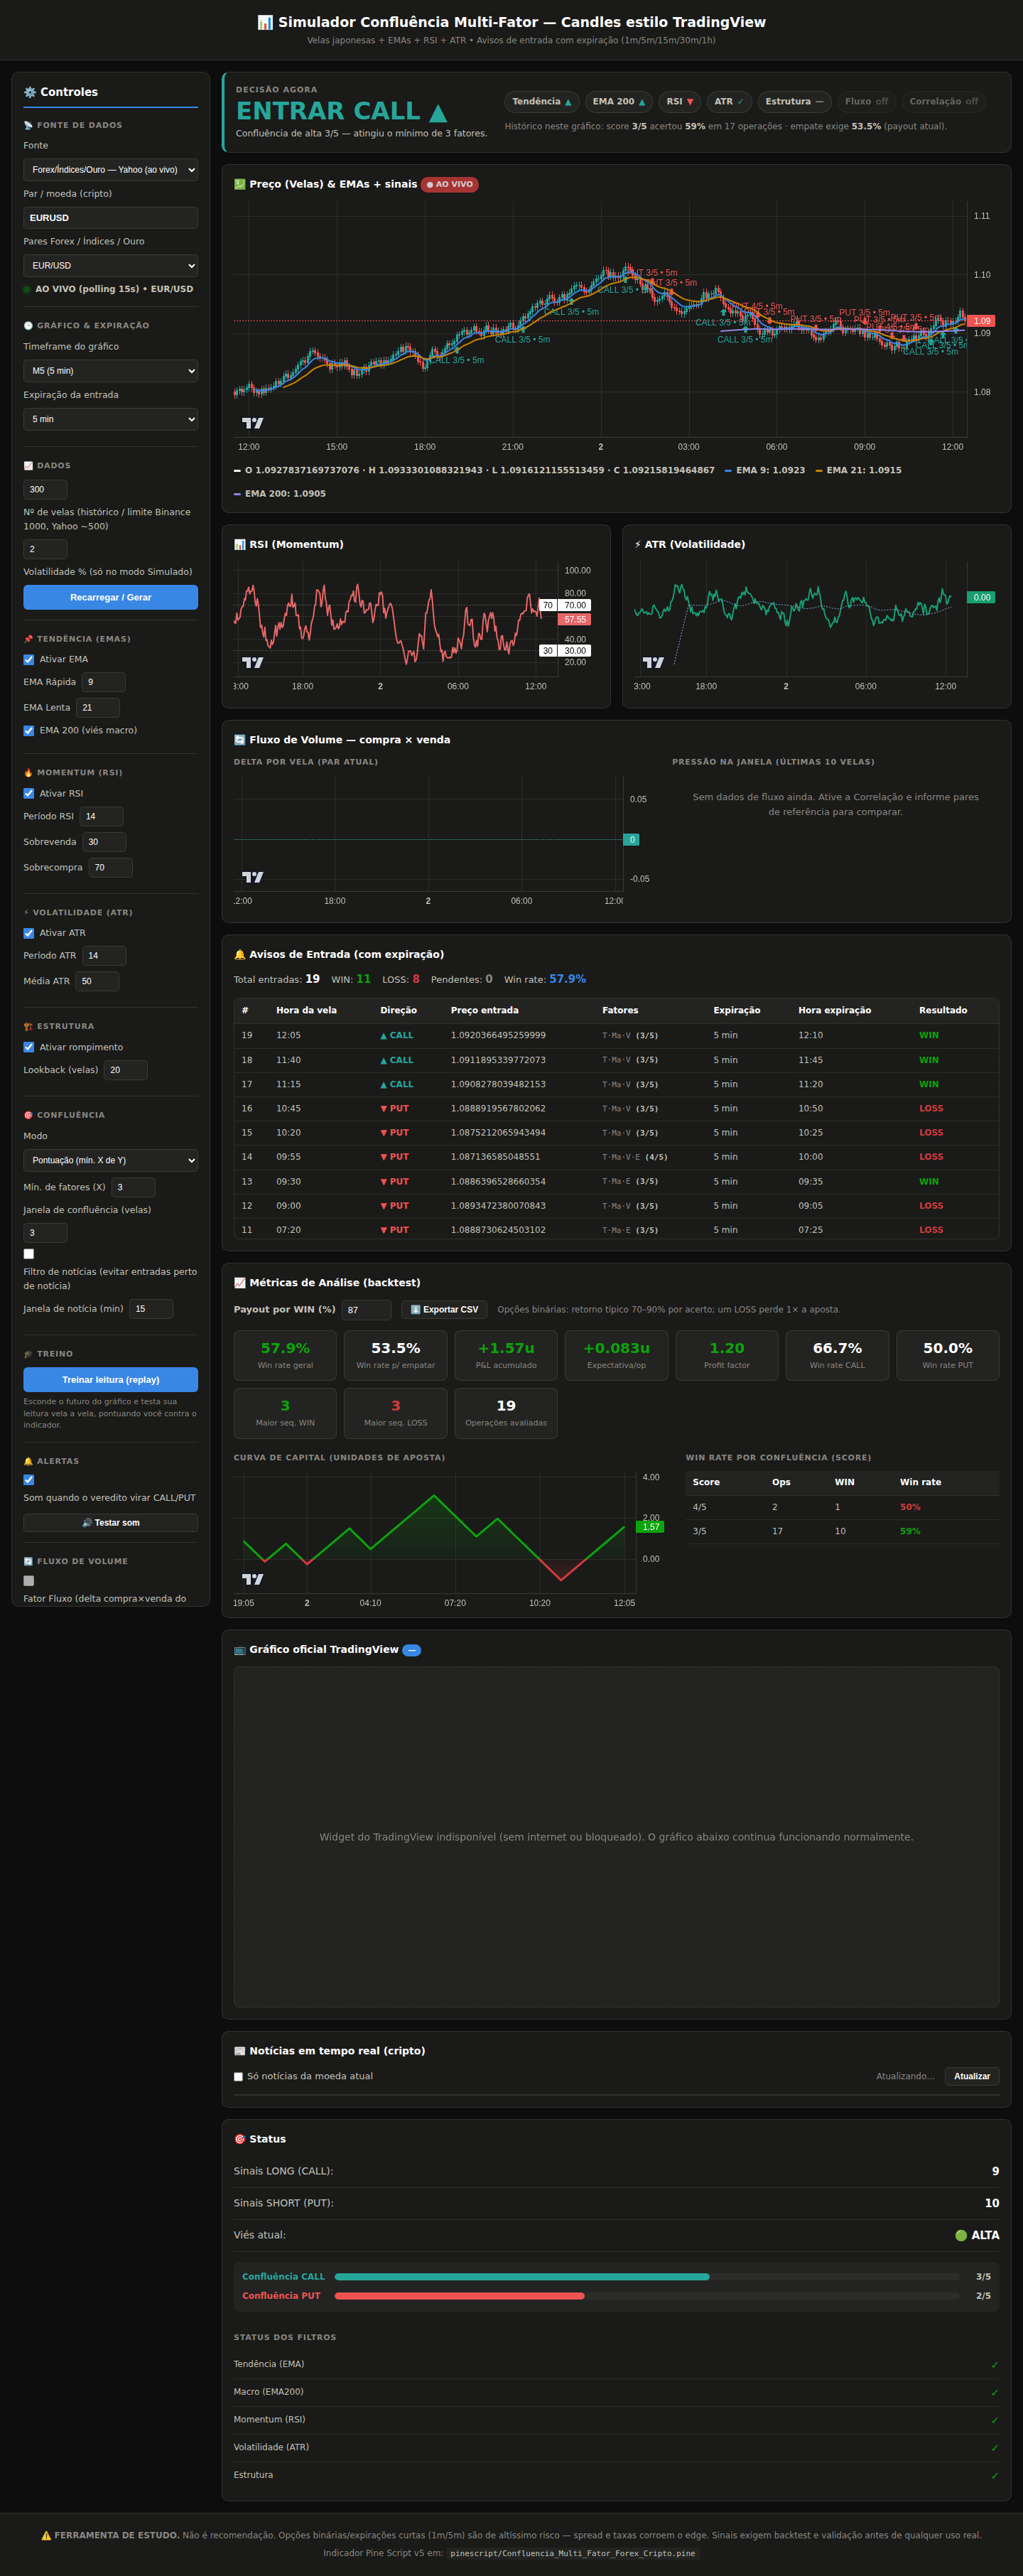
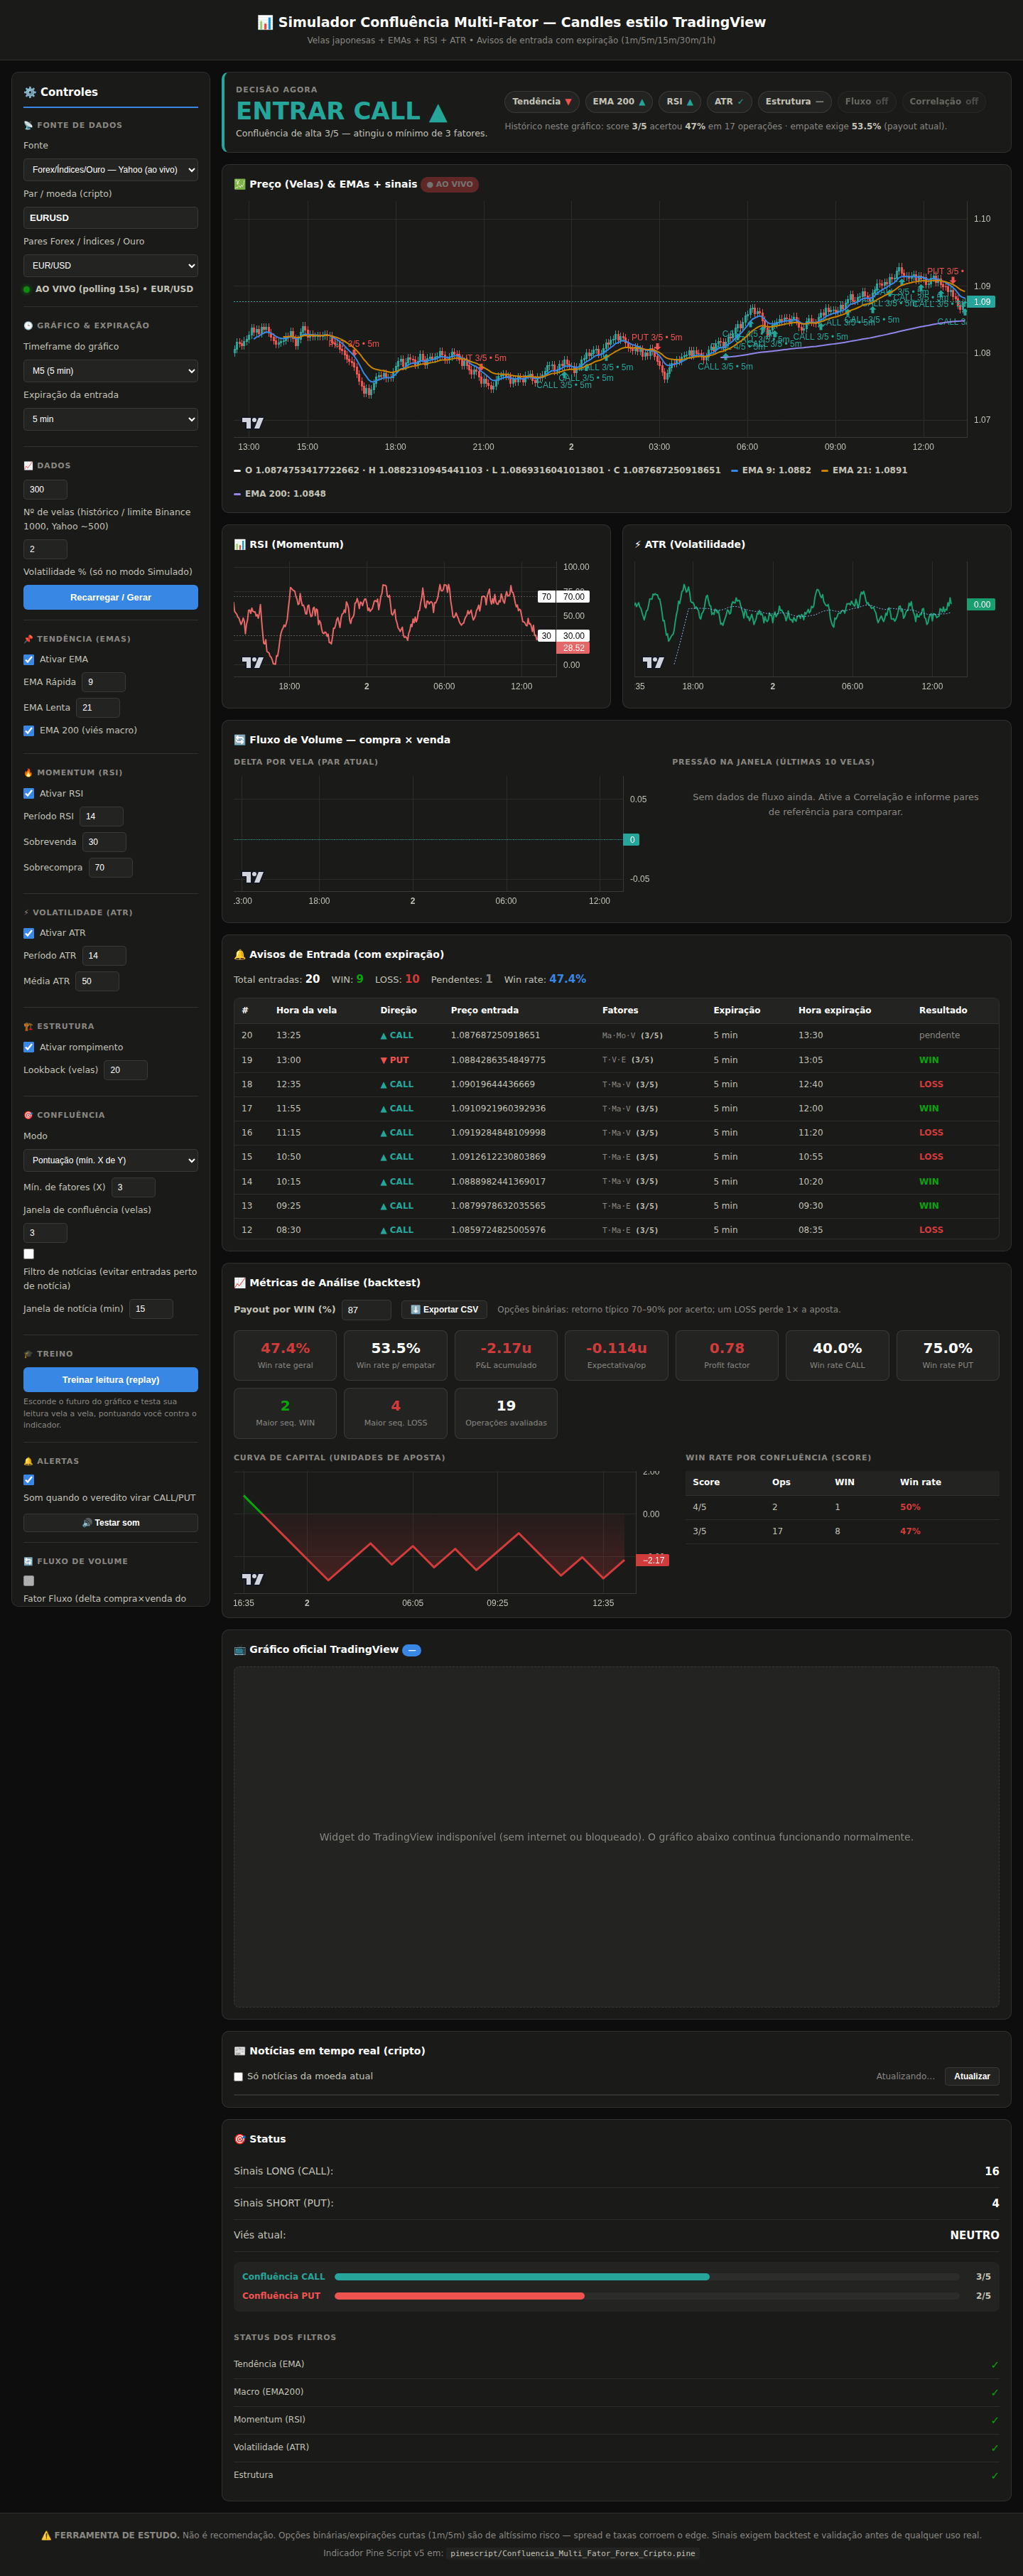
Fix 'Failed to fetch' on Forex/Yahoo source with multi-proxy fallback
The Yahoo source relied on a single CORS proxy (allorigins/get), which is
intermittently down (observed 500/522 from Cloudflare) — that produced the
'Falha: Failed to fetch' users hit. fetchYahooJson now cycles through
several CORS proxies (allorigins/raw, codetabs, allorigins/get) across 3
rounds with backoff, returning on the first that yields a valid Yahoo chart
payload, so one proxy being down no longer breaks the load. The ?yproxy=
override still forces a single {contents}-wrapped proxy for tests.

Also clarifies status text: while loading it shows the pair being fetched,
and on total failure the fallback is explicitly labeled SIMULADO with a
prompt to click Recarregar to retry.

Verified in headless Chromium against the local Yahoo mock: EUR/USD,
XAU/USD, NAS100 and GER40 each load 300 candles and reach 'AO VIVO' with
the correct TradingView symbol.

diff --git a/pinescript/Simulador_Standalone.html b/pinescript/Simulador_Standalone.html
@@ -1387,7 +1387,17 @@ const BINANCE_REST = _params.get('rest') || 'https://data-api.binance.vision';
 const BINANCE_WS   = _params.get('ws')   || 'wss://data-stream.binance.vision';
 
 // ---- Forex / Índices / Ouro via Yahoo Finance (keyless, sem CORS -> via proxy) ----
-const YAHOO_PROXY = _params.get('yproxy') || 'https://api.allorigins.win/get?url=';
+// Yahoo não libera CORS; passamos por proxies CORS públicos. Como cada um é
+// instável (allorigins às vezes cai com 500/522), tentamos VÁRIOS em sequência.
+// ?yproxy= força um único proxy no formato {contents:...} (usado nos testes).
+const YAHOO_PROXY_OVERRIDE = _params.get('yproxy');
+const YAHOO_PROXIES = YAHOO_PROXY_OVERRIDE
+    ? [{ nome: 'override', montar: u => YAHOO_PROXY_OVERRIDE + encodeURIComponent(u), texto: async r => JSON.parse(await r.text()).contents }]
+    : [
+        { nome: 'allorigins-raw', montar: u => 'https://api.allorigins.win/raw?url=' + encodeURIComponent(u), texto: r => r.text() },
+        { nome: 'codetabs', montar: u => 'https://api.codetabs.com/v1/proxy/?quest=' + encodeURIComponent(u), texto: r => r.text() },
+        { nome: 'allorigins-get', montar: u => 'https://api.allorigins.win/get?url=' + encodeURIComponent(u), texto: async r => JSON.parse(await r.text()).contents }
+    ];
 const PARES_YAHOO = {
     EURUSD: { yahoo: 'EURUSD=X', tv: 'FX:EURUSD', label: 'EUR/USD' },
     USDJPY: { yahoo: 'USDJPY=X', tv: 'FX:USDJPY', label: 'USD/JPY' },
@@ -2582,23 +2592,25 @@ function pararPollYahoo() { if (yahooPollTimer) { clearInterval(yahooPollTimer);
 // Yahoo não tem CORS liberado nem WS público: usamos um proxy que embrulha a
 // resposta em {contents:"..."} (mesmo mecanismo das notícias), com retry —
 // esse proxy público é instável e às vezes devolve 500/522 transitórios.
-async function fetchYahooJson(url, tentativas) {
-    tentativas = tentativas || 3;
+async function fetchYahooJson(url, rodadas) {
+    rodadas = rodadas || 3;
     let ultimoErro;
-    for (let i = 0; i < tentativas; i++) {
-        try {
-            const resp = await fetch(YAHOO_PROXY + encodeURIComponent(url));
-            if (!resp.ok) throw new Error('HTTP ' + resp.status);
-            const wrap = await resp.json();
-            const inner = JSON.parse(wrap.contents);
-            if (inner.chart.error) throw new Error(inner.chart.error.description || 'erro Yahoo');
-            return inner.chart.result[0];
-        } catch (e) {
-            ultimoErro = e;
-            if (i < tentativas - 1) await new Promise(r => setTimeout(r, 700 * (i + 1)));
+    for (let r = 0; r < rodadas; r++) {
+        for (const p of YAHOO_PROXIES) {
+            try {
+                const resp = await fetch(p.montar(url));
+                if (!resp.ok) throw new Error(p.nome + ' HTTP ' + resp.status);
+                const inner = JSON.parse(await p.texto(resp));
+                if (inner.chart && inner.chart.error) throw new Error(inner.chart.error.description || 'erro Yahoo');
+                if (!inner.chart || !inner.chart.result || !inner.chart.result[0]) throw new Error('resposta vazia');
+                return inner.chart.result[0];
+            } catch (e) {
+                ultimoErro = e;   // tenta o próximo proxy
+            }
         }
+        if (r < rodadas - 1) await new Promise(res => setTimeout(res, 600 * (r + 1)));  // backoff entre rodadas
     }
-    throw ultimoErro;
+    throw ultimoErro || new Error('nenhum proxy respondeu');
 }
 
 function yahooIntervalStr(min) { return (min === 60 ? '60' : String(min)) + 'm'; }
@@ -2710,7 +2722,7 @@ async function carregar() {
             setStatus('err', `Par "${codigo}" não está na lista de Forex/Índices/Ouro`);
             return;
         }
-        setStatus('connecting', 'Carregando histórico (Yahoo)…');
+        setStatus('connecting', `Carregando ${PARES_YAHOO[codigo].label} (Yahoo, testando proxies)…`);
         const limit = Math.min(500, Math.max(50, parseInt(document.getElementById('numCandles').value) || 300));
         try {
             dados = await carregarHistoricoYahoo(codigo, tfMinutes(), limit);
@@ -2720,8 +2732,9 @@ async function carregar() {
             setStatus('on', `AO VIVO (polling 15s) • ${PARES_YAHOO[codigo].label}`);
             iniciarPollYahoo(codigo, tfMinutes());
         } catch (err) {
-            setStatus('err', 'Falha: ' + (err.message || err));
             console.error('Erro ao carregar Yahoo:', err);
+            // Proxies indisponíveis: mostra SIMULADO (deixando claro) e permite retry
+            setStatus('err', 'Proxy indisponível — mostrando SIMULADO. Clique em "Recarregar / Gerar" p/ tentar de novo.');
             dados = gerarDadosSim(parseInt(document.getElementById('numCandles').value) || 300, 2);
             refPares = [];
             redesenharTudo(true);

diff --git a/pinescript/app.js b/pinescript/app.js
@@ -13,7 +13,17 @@ const BINANCE_REST = _params.get('rest') || 'https://data-api.binance.vision';
 const BINANCE_WS   = _params.get('ws')   || 'wss://data-stream.binance.vision';
 
 // ---- Forex / Índices / Ouro via Yahoo Finance (keyless, sem CORS -> via proxy) ----
-const YAHOO_PROXY = _params.get('yproxy') || 'https://api.allorigins.win/get?url=';
+// Yahoo não libera CORS; passamos por proxies CORS públicos. Como cada um é
+// instável (allorigins às vezes cai com 500/522), tentamos VÁRIOS em sequência.
+// ?yproxy= força um único proxy no formato {contents:...} (usado nos testes).
+const YAHOO_PROXY_OVERRIDE = _params.get('yproxy');
+const YAHOO_PROXIES = YAHOO_PROXY_OVERRIDE
+    ? [{ nome: 'override', montar: u => YAHOO_PROXY_OVERRIDE + encodeURIComponent(u), texto: async r => JSON.parse(await r.text()).contents }]
+    : [
+        { nome: 'allorigins-raw', montar: u => 'https://api.allorigins.win/raw?url=' + encodeURIComponent(u), texto: r => r.text() },
+        { nome: 'codetabs', montar: u => 'https://api.codetabs.com/v1/proxy/?quest=' + encodeURIComponent(u), texto: r => r.text() },
+        { nome: 'allorigins-get', montar: u => 'https://api.allorigins.win/get?url=' + encodeURIComponent(u), texto: async r => JSON.parse(await r.text()).contents }
+    ];
 const PARES_YAHOO = {
     EURUSD: { yahoo: 'EURUSD=X', tv: 'FX:EURUSD', label: 'EUR/USD' },
     USDJPY: { yahoo: 'USDJPY=X', tv: 'FX:USDJPY', label: 'USD/JPY' },
@@ -1208,23 +1218,25 @@ function pararPollYahoo() { if (yahooPollTimer) { clearInterval(yahooPollTimer);
 // Yahoo não tem CORS liberado nem WS público: usamos um proxy que embrulha a
 // resposta em {contents:"..."} (mesmo mecanismo das notícias), com retry —
 // esse proxy público é instável e às vezes devolve 500/522 transitórios.
-async function fetchYahooJson(url, tentativas) {
-    tentativas = tentativas || 3;
+async function fetchYahooJson(url, rodadas) {
+    rodadas = rodadas || 3;
     let ultimoErro;
-    for (let i = 0; i < tentativas; i++) {
-        try {
-            const resp = await fetch(YAHOO_PROXY + encodeURIComponent(url));
-            if (!resp.ok) throw new Error('HTTP ' + resp.status);
-            const wrap = await resp.json();
-            const inner = JSON.parse(wrap.contents);
-            if (inner.chart.error) throw new Error(inner.chart.error.description || 'erro Yahoo');
-            return inner.chart.result[0];
-        } catch (e) {
-            ultimoErro = e;
-            if (i < tentativas - 1) await new Promise(r => setTimeout(r, 700 * (i + 1)));
+    for (let r = 0; r < rodadas; r++) {
+        for (const p of YAHOO_PROXIES) {
+            try {
+                const resp = await fetch(p.montar(url));
+                if (!resp.ok) throw new Error(p.nome + ' HTTP ' + resp.status);
+                const inner = JSON.parse(await p.texto(resp));
+                if (inner.chart && inner.chart.error) throw new Error(inner.chart.error.description || 'erro Yahoo');
+                if (!inner.chart || !inner.chart.result || !inner.chart.result[0]) throw new Error('resposta vazia');
+                return inner.chart.result[0];
+            } catch (e) {
+                ultimoErro = e;   // tenta o próximo proxy
+            }
         }
+        if (r < rodadas - 1) await new Promise(res => setTimeout(res, 600 * (r + 1)));  // backoff entre rodadas
     }
-    throw ultimoErro;
+    throw ultimoErro || new Error('nenhum proxy respondeu');
 }
 
 function yahooIntervalStr(min) { return (min === 60 ? '60' : String(min)) + 'm'; }
@@ -1336,7 +1348,7 @@ async function carregar() {
             setStatus('err', `Par "${codigo}" não está na lista de Forex/Índices/Ouro`);
             return;
         }
-        setStatus('connecting', 'Carregando histórico (Yahoo)…');
+        setStatus('connecting', `Carregando ${PARES_YAHOO[codigo].label} (Yahoo, testando proxies)…`);
         const limit = Math.min(500, Math.max(50, parseInt(document.getElementById('numCandles').value) || 300));
         try {
             dados = await carregarHistoricoYahoo(codigo, tfMinutes(), limit);
@@ -1346,8 +1358,9 @@ async function carregar() {
             setStatus('on', `AO VIVO (polling 15s) • ${PARES_YAHOO[codigo].label}`);
             iniciarPollYahoo(codigo, tfMinutes());
         } catch (err) {
-            setStatus('err', 'Falha: ' + (err.message || err));
             console.error('Erro ao carregar Yahoo:', err);
+            // Proxies indisponíveis: mostra SIMULADO (deixando claro) e permite retry
+            setStatus('err', 'Proxy indisponível — mostrando SIMULADO. Clique em "Recarregar / Gerar" p/ tentar de novo.');
             dados = gerarDadosSim(parseInt(document.getElementById('numCandles').value) || 300, 2);
             refPares = [];
             redesenharTudo(true);